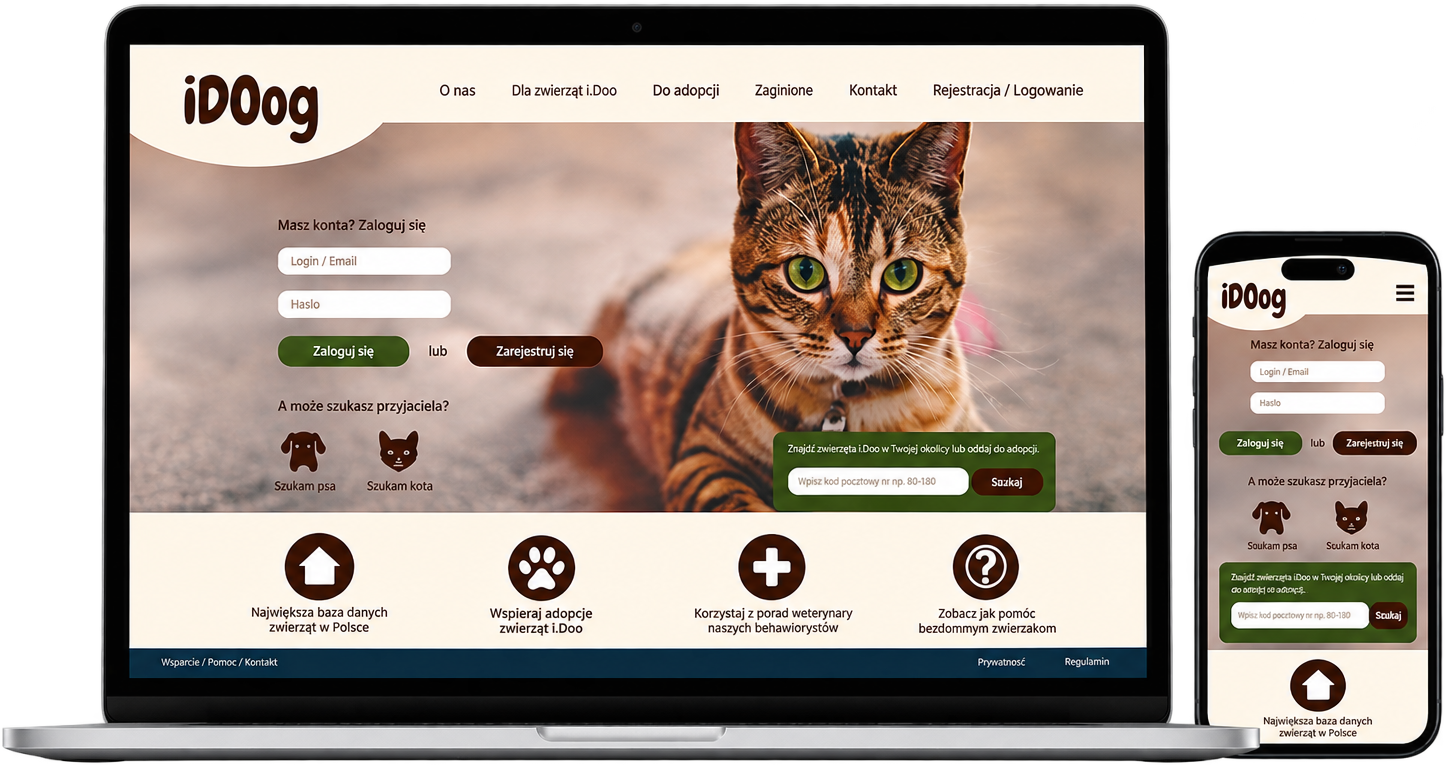
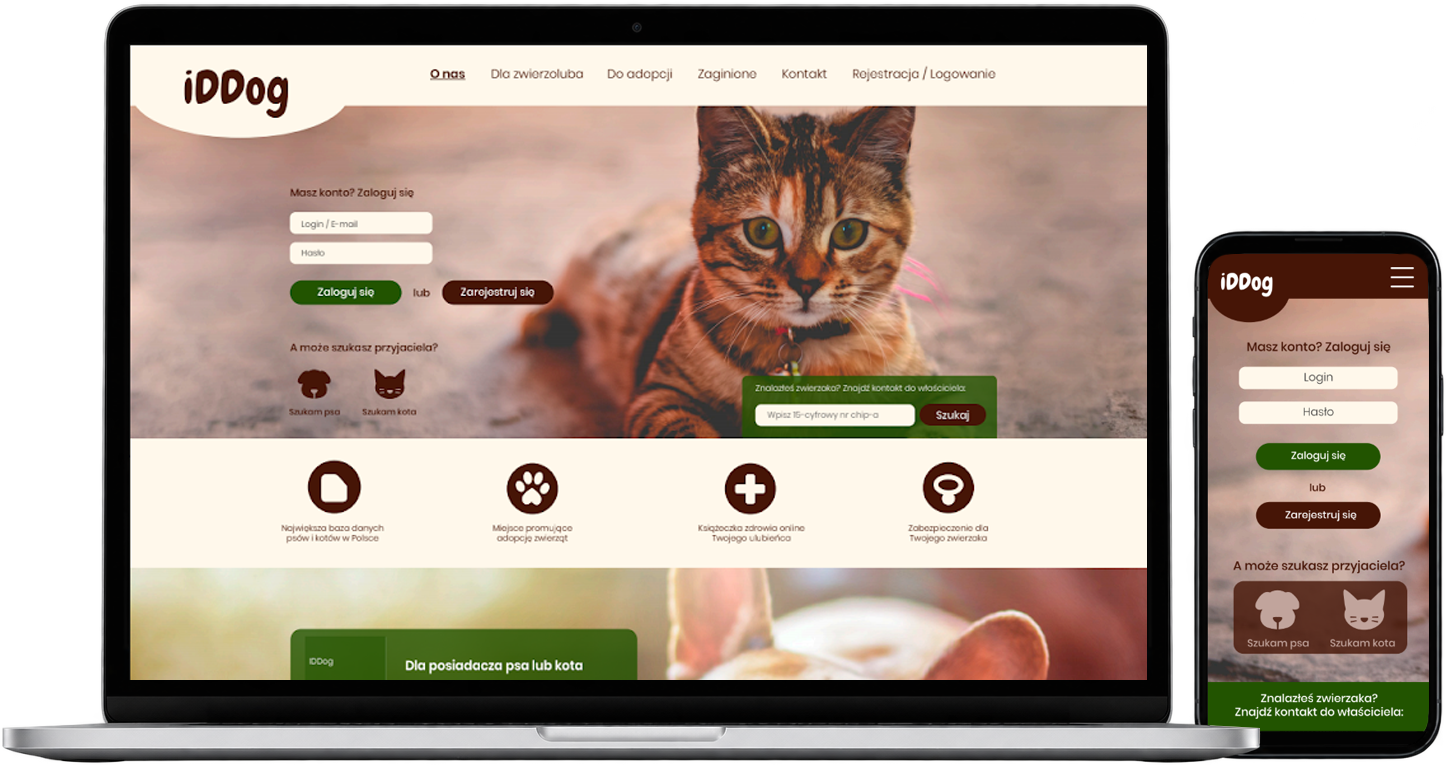
zmiany dot. IdDog

diff --git a/website_gallery.html b/website_gallery.html
@@ -29,20 +29,6 @@
 
     </div>
 
-    <div class="slider__website-item" >
 
-        <div class="slider__website-item-box">
-
-            <div>
-                <img src="/galleries/websites/iddog.png" alt="" srcset="">
-            </div>
-
-            <div>
-                Test
-            </div>
-
-        </div>
-
-    </div>
 
 </div>

diff --git a/css/sections.css b/css/sections.css
@@ -13,7 +13,6 @@ section:nth-child(odd) { background-color: var(--white) }
             section {
                 height: 50vh;
             }
-            
         }
 
 
